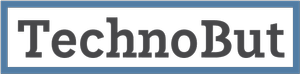
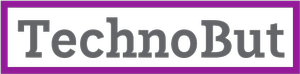
Colourscheme changes

diff --git a/style.css b/style.css
@@ -65,7 +65,7 @@ a.TBN {
 }
 
 a.BTS:hover {
-	color: rgb(73, 124, 199);
+	color: rgb(35, 0, 122, 255); 
 }
 
 .Gamma {
